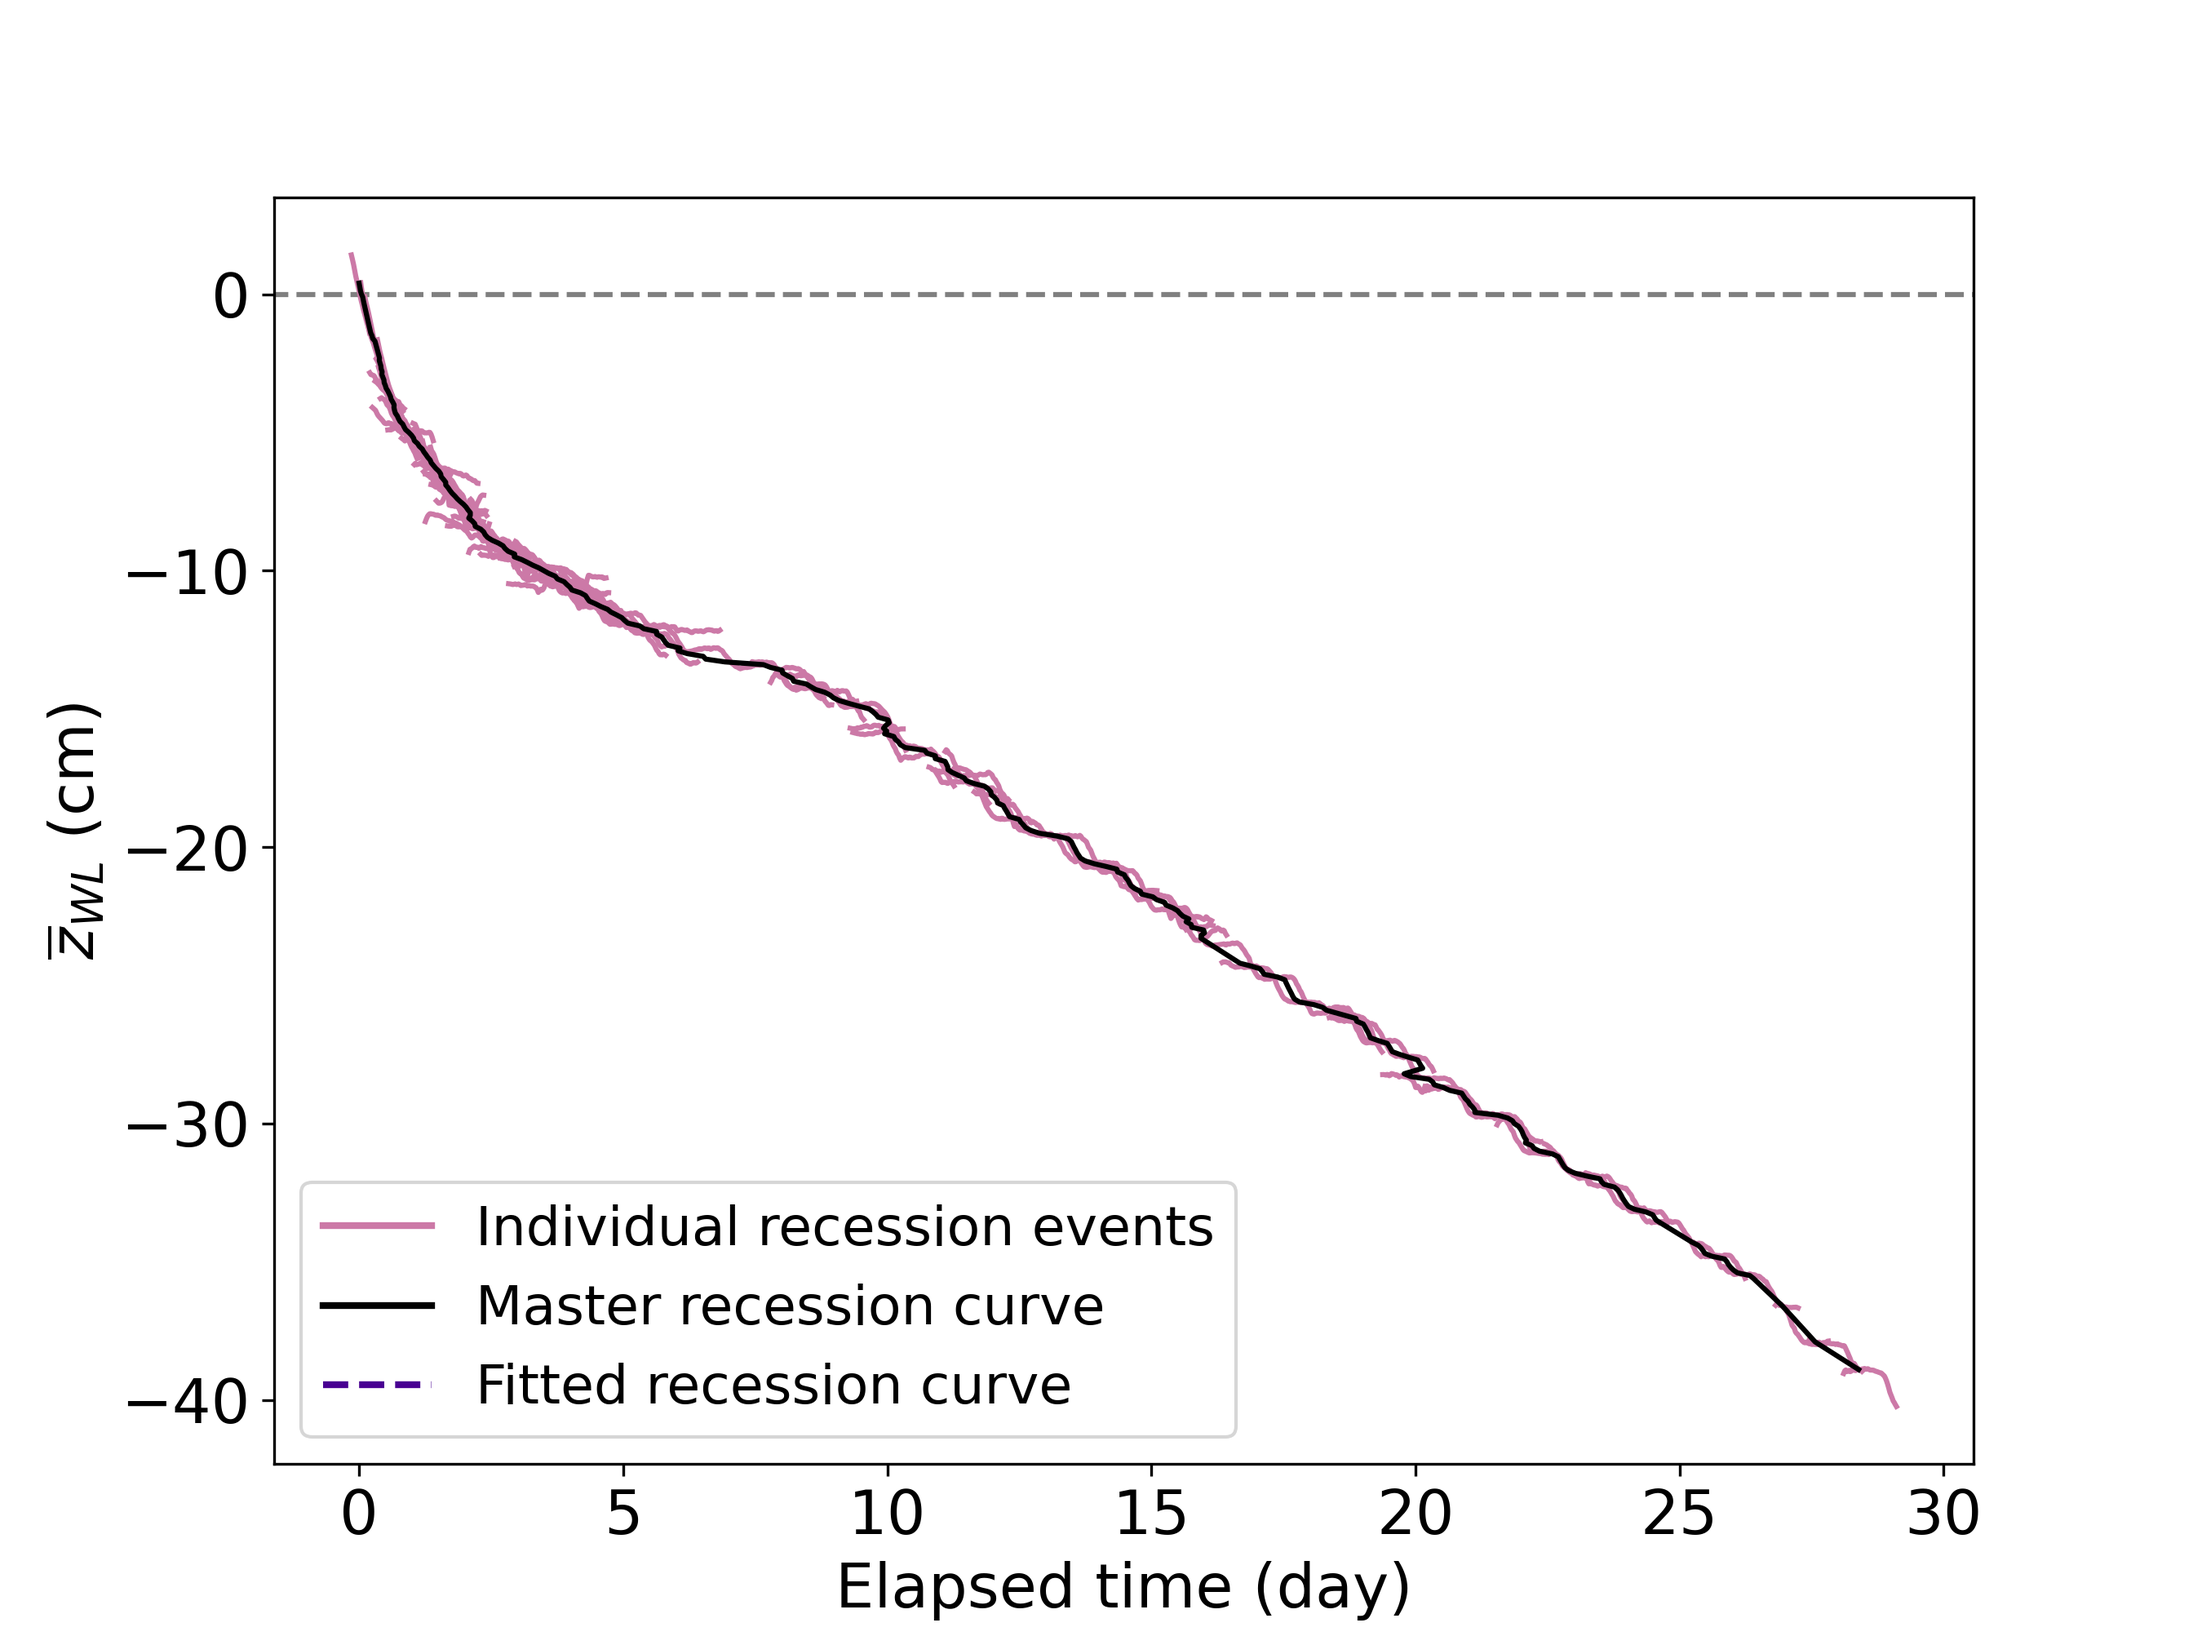
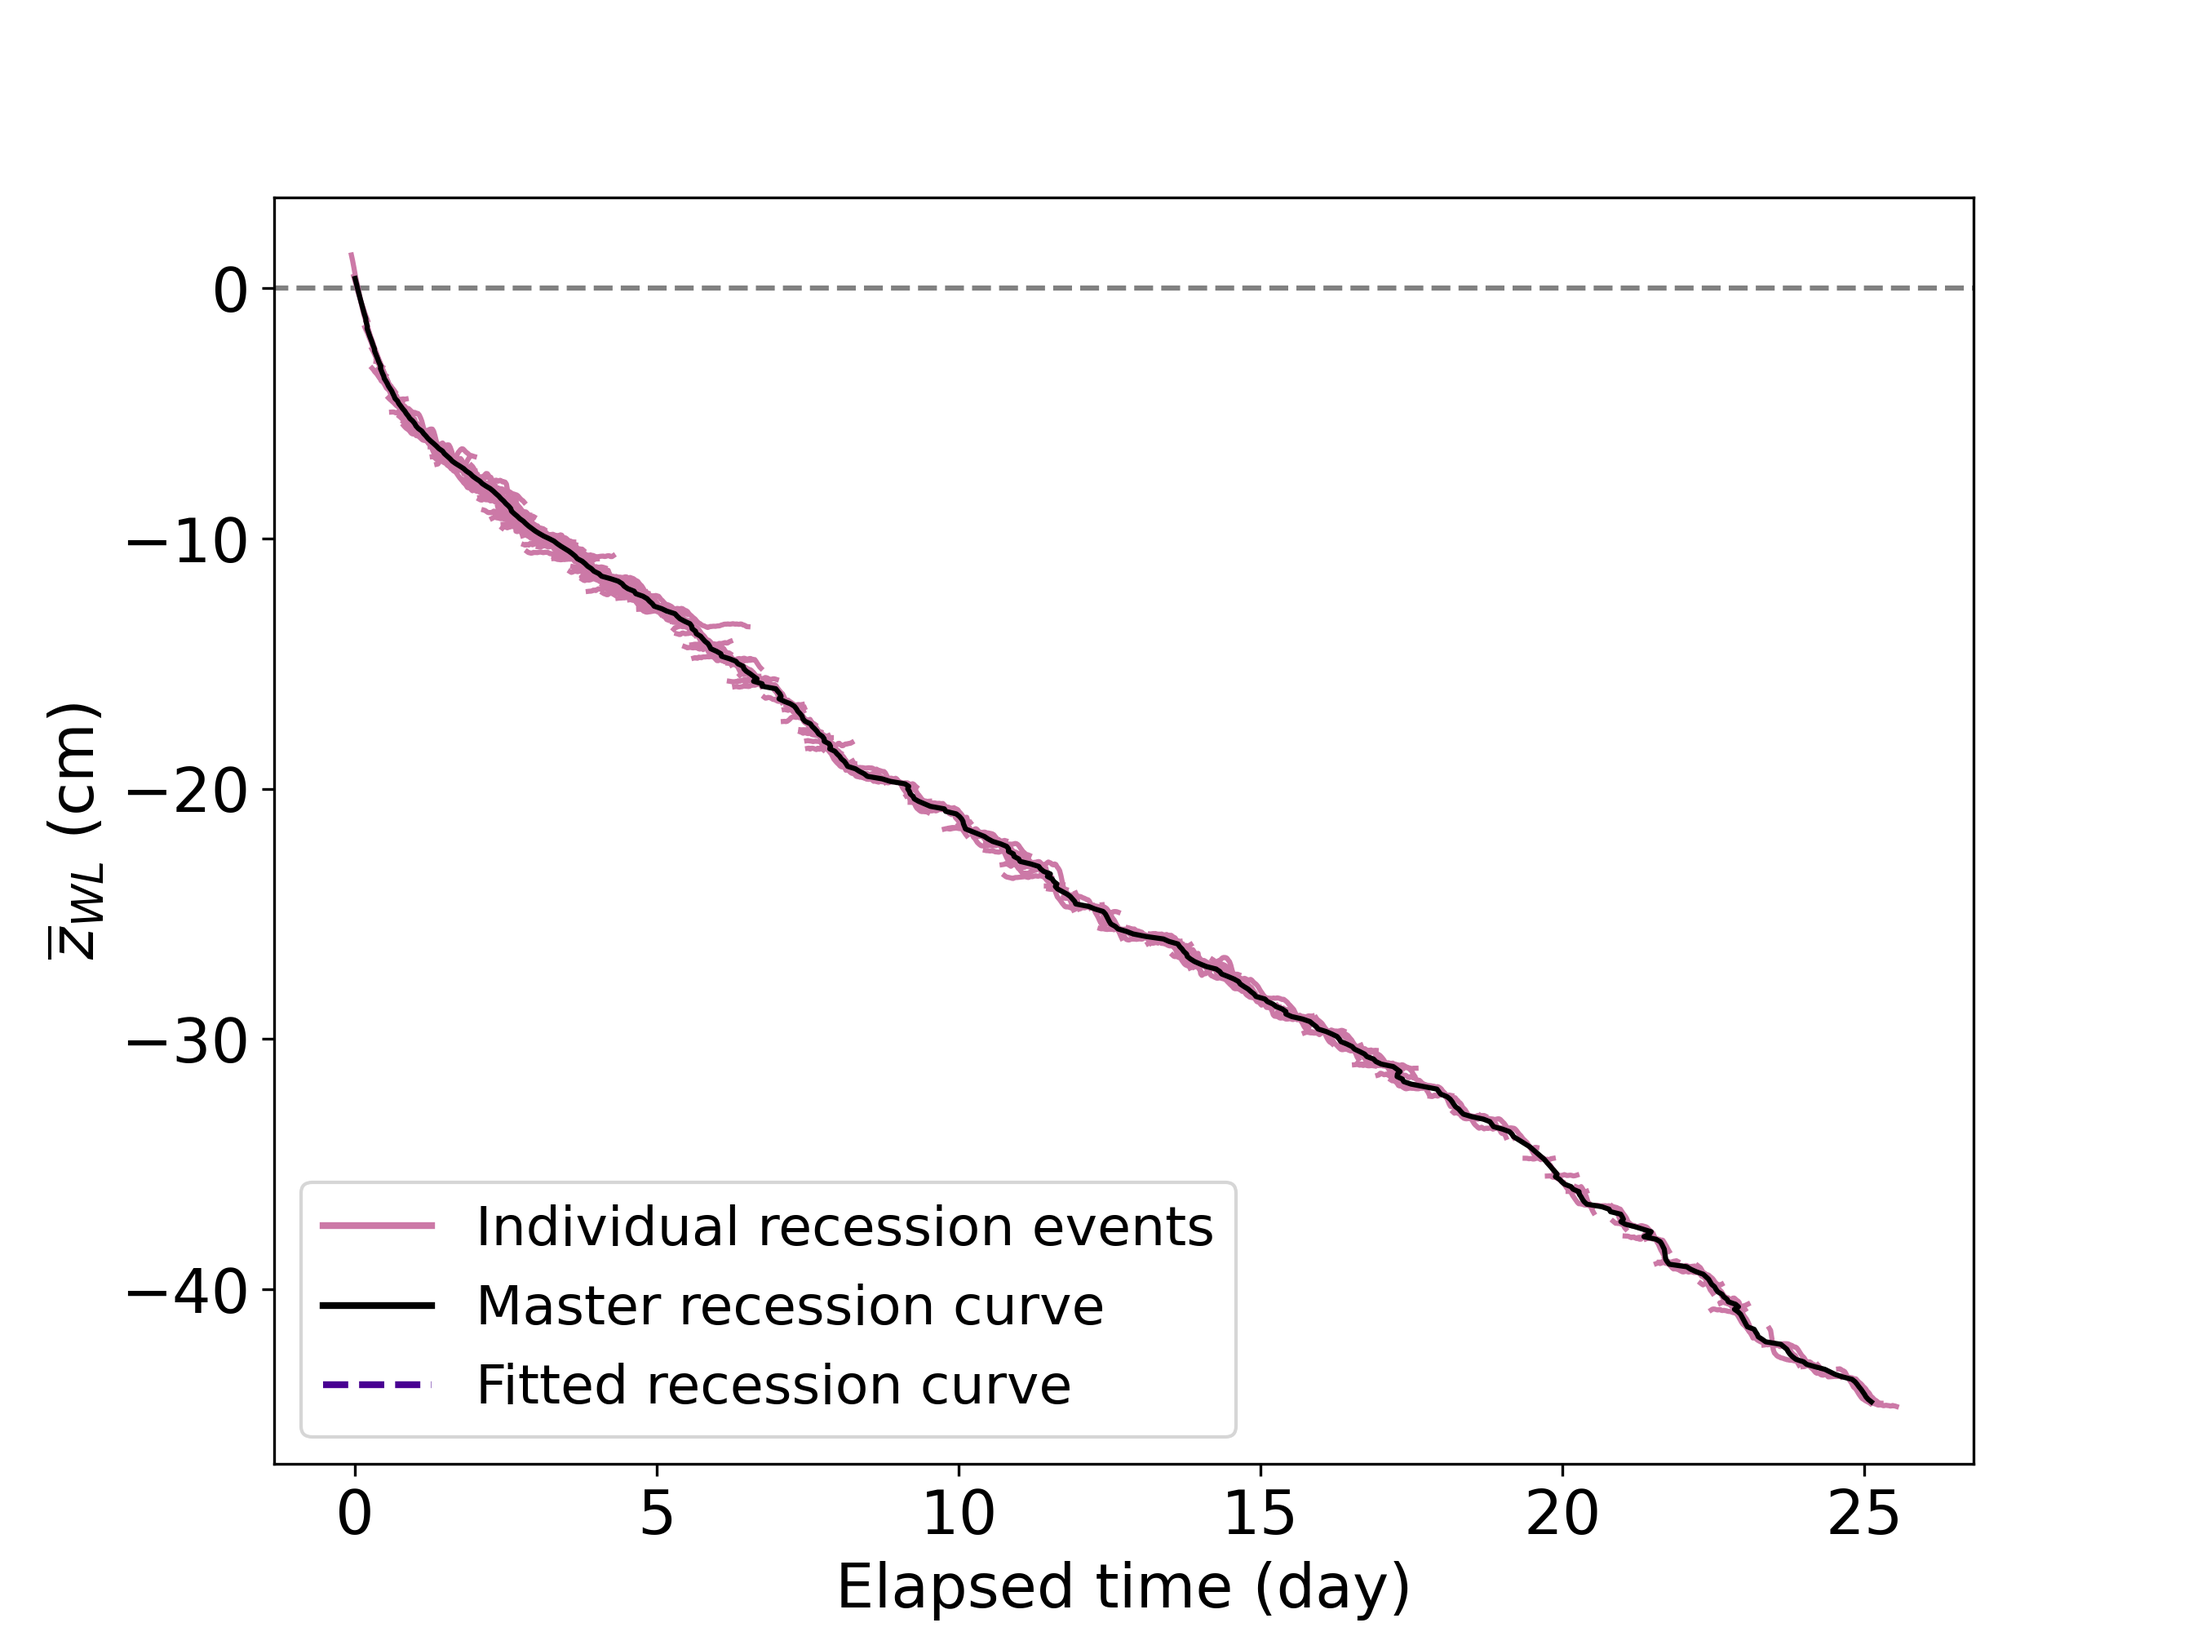
updates for precipitation analysis and testing code

diff --git a/spowtd/classify.py b/spowtd/classify.py
@@ -110,7 +110,7 @@ def classify_interstorms(cursor, data_interval, rising_jump_threshold_mm_h):
     # until the next rain as a "mystery jump".
     rates = np.concatenate(([0], (zeta_mm[1:] - zeta_mm[:-1]) / (hour[1:] - hour[:-1])))
     is_jump = (rates > rising_jump_threshold_mm_h).astype(bool)
-    is_mystery_jump = get_mystery_jump_mask(is_jump, is_raining)
+    is_mystery_jump = get_mystery_jump_mask(is_jump, is_raining, zeta_mm) #SA! added zeta_mm to stop mystery_jumps sooner
     is_interstorm = (~is_mystery_jump) & (~is_raining)
     interval_mask = is_interstorm
     del is_raining
@@ -144,11 +144,30 @@ def classify_interstorms(cursor, data_interval, rising_jump_threshold_mm_h):
     #SA! Only inlcude recession events that last at least 24 hours - include diurnal effect on recession rate
     #SA! except if the initial zeta_mm value of the recession event belongs to the highest 10% of WL, then include without cropping
     #SA! Round/crop recession events to full days to even night and day time recession contribution
-    for indices in series_indices:
-        if (epoch[indices[-1]] - epoch[indices[0]] > 86400) | (zeta_mm[indices[0]] >= np.quantile(zeta_mm, 0.90)): # full day 86400  20 hours 72000
-            remainder = (epoch[indices[-1]] - epoch[indices[0]]) % 86400
-            if (epoch[indices[-1]] - epoch[indices[0]] > 86400):
-                epoch[indices[-1]] = epoch[indices[-1]] - remainder
+
+    duration_recession = 1
+
+    if duration_recession == 1:
+        for indices in series_indices:
+            if (epoch[indices[-1]] - epoch[indices[0]] > 86400) | (zeta_mm[indices[0]] >= np.quantile(zeta_mm, 0.90)): # full day 86400  20 hours 72000
+                remainder = (epoch[indices[-1]] - epoch[indices[0]]) % 86400
+                if (epoch[indices[-1]] - epoch[indices[0]] > 86400):
+                    epoch[indices[-1]] = epoch[indices[-1]] - remainder
+                cursor.execute(
+                    """
+                    INSERT INTO zeta_interval
+                        (start_epoch, interval_type, thru_epoch)
+                    SELECT
+                        :start_epoch, :interval_type, :thru_epoch
+                    """,
+                    {
+                        "interval_type": "interstorm",
+                        "start_epoch": int(epoch[indices[0]]),
+                        "thru_epoch": int(epoch[indices[-1]]),
+                    },
+                )
+    else:
+        for indices in series_indices:
             cursor.execute(
                 """
                 INSERT INTO zeta_interval
@@ -238,16 +257,16 @@ def match_all_storms(
         #SA! if the rise event is increasing but at a lower rate than the threshold
         #SA! and the storm event is longer than the rise event, extend to the storm event while increasing
 
-        for size in range(int((jump_start_epoch-storm_start_epoch)/1800)):
-            if zeta_mm[jump_start] > zeta_mm[jump_start-size]:
-                jump_start_epoch = int(jump_start_epoch-size*1800)
+        #for size in np.arange(1, int((jump_start_epoch-storm_start_epoch)/1800)):
+        #    if zeta_mm[jump_start] > zeta_mm[jump_start-size]:
+        #        jump_start_epoch = int(jump_start_epoch-(size-1)*1800)
 
-        for size in range(int((storm_thru_epoch-jump_thru_epoch)/1800)):
-            if zeta_mm[jump_stop] > zeta_mm[jump_stop+size]:
-                jump_thru_epoch = int(jump_thru_epoch+size*1800)
+        #for size in np.arange(1,int((storm_thru_epoch-jump_thru_epoch)/1800)):
+        #    if zeta_mm[jump_stop-1] > zeta_mm[jump_stop-1+size]:
+        #        jump_thru_epoch = int(jump_thru_epoch+size*1800)
 
         # SA! Ensure minimum time window for P contribution to jump is the time window of that jump
-        storm_start_epoch = int(np.min([storm_start_epoch,jump_start_epoch]))
+        storm_start_epoch = int(np.min([storm_start_epoch,jump_start_epoch])) # SA adjusted this from this [storm_start_epoch,jump_start_epoch]
         storm_thru_epoch = int(np.max([storm_thru_epoch-1800,jump_thru_epoch]))
 
         # SA! If the 2 hours before and/or after are still raining (P >= 0.5 mm/h) then extend the P time window
@@ -546,7 +565,8 @@ def find_stable_matching(storm_candidates, jump_preferences):
         if jump in matches:
             if jump_preferences[jump][storm] > jump_preferences[jump][matches[jump]]:
                 assert matches[jump] not in matchable_storms
-                matchable_storms.add(matches[jump])
+                #matchable_storms.add(matches[jump])
+                #storm_candidates[matches[jump]]=[matches[jump]]
                 matches[jump] = storm
                 storm_is_free = False
         else:
@@ -572,7 +592,7 @@ def check_for_uniform_time_steps(epoch):
         raise ValueError("Nonuniform time steps in {}".format(sorted(set(delta_t))))
 
 
-def get_mystery_jump_mask(is_jump, is_raining):
+def get_mystery_jump_mask(is_jump, is_raining, zeta_mm):
     """Flag everything from a mystery jump until the next rain
 
     A "mystery jump" is a jump in head with no rain.  The returned
@@ -587,15 +607,19 @@ def get_mystery_jump_mask(is_jump, is_raining):
 
     """
 
+    """SA! added zeta_mm to stop mystery_jumps sooner. Instead of classifying as a mysteryjump untill is_raining=True
+    now if it is not rising the mysterjump stops
+    """
+
     assert_equal(len(is_jump), len(is_raining))
     mystery_jump_mask = np.zeros(len(is_jump), bool)
     in_mystery = True
     # pylint: disable=consider-using-enumerate
     for i in range(len(mystery_jump_mask)):
-        if is_raining[i]: # or (zeta_mm[i] < zeta_mm[i-1]):
+        if is_raining[i] or (zeta_mm[i] < zeta_mm[i-1]):
             in_mystery = False
         else:
-            if is_jump[i]:
+            if is_jump[i] :
                 in_mystery = True
         mystery_jump_mask[i] = in_mystery
     # Test assertions in docstring: mystery_jump_mask is true at least

diff --git a/spowtd/spowtd_debug_SA.py b/spowtd/spowtd_debug_SA.py
@@ -15,11 +15,11 @@ import pandas as pd
 
 load = 1
 if load == 1:
-    connection = sqlite3.connect("/data/leuven/324/vsc32460/AC/spowtd/Brunei100_44_GS_smooth_insitu_load_remove.sqlite3") #"/data/leuven/324/vsc32460/AC/spowtd/Brunei100_44_GS_smooth_IMERG_load_remove.sqlite3"
-    precipitation_data_file = open('/data/leuven/324/vsc32460/AC/spowtd/src/throughfall_Brunei_30min.txt', mode='r') #'/data/leuven/324/vsc32460/AC/spowtd/src/precipitation_Brunei_IMERG_CDF.txt'
+    connection = sqlite3.connect("/data/leuven/324/vsc32460/AC/spowtd/Brunei100_44_GS_smooth_IMERG_4C_OG.sqlite3")  # "/data/leuven/324/vsc32460/AC/spowtd/Brunei100_44_GS_smooth_IMERG_load_remove.sqlite3"
+    precipitation_data_file = open('/data/leuven/324/vsc32460/AC/spowtd/src/precipitation_Brunei_IMERG_CDF.txt', mode='r') #'/data/leuven/324/vsc32460/AC/spowtd/src/throughfall_Brunei_30min.txt' precipitation_Brunei_IMERG_CDF.txt
     evapotranspiration_data_file = open('/data/leuven/324/vsc32460/AC/spowtd/src/evapotranspiration_no_intercep_Brunei_30min.txt') #'/data/leuven/324/vsc32460/AC/spowtd/src/evapotranspiration_no_intercep_Brunei_30min.txt'
     water_level_data_file = open('/data/leuven/324/vsc32460/AC/spowtd/src/waterlevel_Brunei_20min_3times_windowaverage_GS.txt') #'/data/leuven/324/vsc32460/AC/spowtd/src/waterlevel_Brunei_20min_3times_windowaverage_GS.txt'
-    time_zone_name = 'Africa/Lagos' #'Asia/Brunei'
+    time_zone_name = 'Asia/Brunei' #'Africa/Lagos' #'Asia/Brunei'
     cursor = connection.cursor()
     load_data(connection,precipitation_data_file,evapotranspiration_data_file,water_level_data_file,time_zone_name,)
     storm_rain_threshold_mm_h = 4.0
@@ -33,11 +33,36 @@ if load == 1:
     find_recession_offsets(connection, reference_zeta_mm=None)
     #plot_rise(connection, parameters=None)
 
+# APPLY ensemble of IMERG data over SPOWTD to
+elif load == 2:
+    for i in np.arange(0, 64):
+        print(i)
+        connection = sqlite3.connect("/data/leuven/324/vsc32460/AC/spowtd/Brunei100_44_GS_smooth_throughfall_4C"+ "_mem_" + str(i) + "SD-1.sqlite3")  # "/data/leuven/324/vsc32460/AC/spowtd/Brunei100_44_GS_smooth_IMERG_load_remove.sqlite3"
+        precipitation_data_file = open('/data/leuven/324/vsc32460/AC/spowtd/src/EM/throughfall_mem_' + str(i) + '/throughfall_Brunei_30min_mem_' + str(i) + 'SD-1.txt', mode='r')  # '/data/leuven/324/vsc32460/AC/spowtd/src/precipitation_Brunei_IMERG_CDF.txt'
+        evapotranspiration_data_file = open('/data/leuven/324/vsc32460/AC/spowtd/src/evapotranspiration_no_intercep_Brunei_30min.txt')  # '/data/leuven/324/vsc32460/AC/spowtd/src/evapotranspiration_no_intercep_Brunei_30min.txt'
+        water_level_data_file = open('/data/leuven/324/vsc32460/AC/spowtd/src/waterlevel_Brunei_20min_3times_windowaverage_GS.txt')  # '/data/leuven/324/vsc32460/AC/spowtd/src/waterlevel_Brunei_20min_3times_windowaverage_GS.txt'
+        time_zone_name = 'Asia/Brunei' #'Africa/Lagos'
+        cursor = connection.cursor()
+        load_data(connection, precipitation_data_file, evapotranspiration_data_file, water_level_data_file,
+                  time_zone_name, )
+        storm_rain_threshold_mm_h = 4.0
+        rising_jump_threshold_mm_h = 4.0
+        classify_intervals(connection, storm_rain_threshold_mm_h, rising_jump_threshold_mm_h)
+        # df_zeta_grid = pd.read_sql_query("SELECT * from zeta_grid", connection)
+        # grid_interval = df_zeta_grid.grid_intervall_mm
+        populate_zeta_grid(connection, grid_interval_mm=1.0)
+        find_rise_offsets(connection, reference_zeta_mm=None)
+        set_curvature(connection, curvature_m_km2=1.0)
+        find_recession_offsets(connection, reference_zeta_mm=None)
+        # plot_rise(connection, parameters=None)
+
 elif load == 0:
     connection = sqlite3.connect("/data/leuven/324/vsc32460/AC/spowtd/Brunei100_44_GS_smooth_IMERG_classify_remove.sqlite3")
     cursor = connection.cursor()
     storm_rain_threshold_mm_h = 4.0
     rising_jump_threshold_mm_h = 4.0
     classify_intervals(connection, storm_rain_threshold_mm_h, rising_jump_threshold_mm_h)
+
+
 
 print('1+1=2')

diff --git a/spowtd/load.py b/spowtd/load.py
@@ -98,7 +98,7 @@ def populate_water_level(cursor, time_grid):
     )
     zeta_t, zeta_mm = zip(*cursor.fetchall())
     # Label times in the time grid with valid data intervals, starting
-    # from 1.  Invalid times are left with a NULL data interval.
+    # from 1.  Invalid times are left with a NULL data ifnterval.
     zeta_t = np.array(zeta_t)
     # Epoch is an integer
     assert np.issubdtype(time_grid.dtype, np.integer), time_grid.dtype
